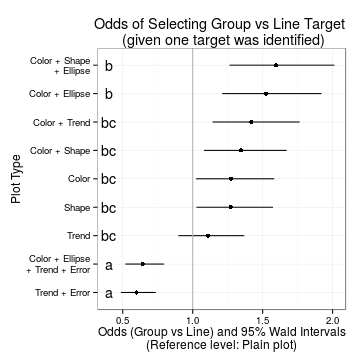
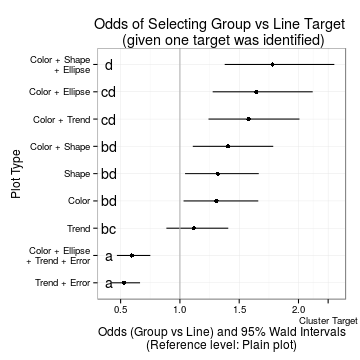
Small edits, updated vs. model

diff --git a/Presentations/DepartmentalSeminar/DepartmentalSeminar.html b/Presentations/DepartmentalSeminar/DepartmentalSeminar.html
@@ -248,7 +248,7 @@
 
 <section id="experiment">
   <section>
-    <div> <h2>Experiment:</h2> <h3> How do plot aesthetics affect perception of statistical plots with competing signals? </h3></div>
+    <div> <h2>Experiment:</h2> <h3> How do plot aesthetics affect <br>perception of statistical plots? </h3></div>
 <div class="chunk" id="motivation"><div class="rimage default"><img src="figure/motivation-1.png" title="plot of chunk motivation" alt="plot of chunk motivation" width="300px" height="300px" class="plot" />
 <img src="figure/motivation-2.png" title="plot of chunk motivation" alt="plot of chunk motivation" width="300px" height="300px" class="plot" /></div></div>
   </section>
@@ -264,14 +264,14 @@
         <td style="vertical-align:top;">
         <h4> <b> Standard design: </b> </h4>
           <ul style="font-size:85%">
-            <li> One "target" plot (real data or generated from $H_A$) </li>
+            <li> One "target" plot <br>(real data or generated from $H_A$) </li>
             <li> 19 null plots generated from $H_0$ </li>
-            <li> $P(\text{select target}) = 0.05$ </li>
-            <li> Visual analogue of hypothesis tests </li>
+            <li> $P(\text{select target}) = 0.05$ under $H_0$ </li>
+            <li> Allows quantification of significance for graphical findings</li>
           </ul>
-          <p style="font-size:50%"> Buja, A., Cook, D., Hofmann, H., Lawrence, M., Lee, E. K., Swayne, D. F., and Wickham, H. (2009). Statistical inference for exploratory data analysis and model diagnostics. </p>
-          <p style="font-size:50%"> Majumder, M., Hofmann, H., and Cook, D. (2013). Validation of visual statistical inference, applied to linear models.</p>
-          <p style="font-size:50%"> Wickham, H., Cook, D., Hofmann, H., and Buja, A. (2010). Graphical inference for infovis.</p>
+          <p style="font-size:50%"> Buja, A., Cook, D., Hofmann, H., Lawrence, M., Lee, E. K., Swayne, D. F., and Wickham, H. (2009). Statistical inference for exploratory data analysis and model diagnostics, <i>Phil. Transac.</i> </p>
+          <p style="font-size:50%"> Majumder, M., Hofmann, H., and Cook, D. (2013). Validation of visual statistical inference, applied to linear models, <i>JASA</i></p>
+          <p style="font-size:50%"> Wickham, H., Cook, D., Hofmann, H., and Buja, A. (2010). Graphical inference for infovis, <i>TVCG</i></p>
         </td>
       </tr>
     </table>
@@ -308,6 +308,7 @@
                 <td style="text-align:right;padding-left:20px;padding-top:20px;padding-right:20px;"> Other: </td> <td style="text-align:right;padding-top:20px;"> <code class="knitr inline">31.7</code>% </td>
               </tr>
             </table>
+            Sample size: 22
           </div>
         </td>
       </tr>
@@ -346,6 +347,7 @@
                 <td style="text-align:right;padding-left:20px;padding-top:20px;padding-right:20px;"> Other: </td> <td style="text-align:right;padding-top:20px;"> <code class="knitr inline">29.1</code>% </td>
               </tr>
             </table>
+            Sample size: 31
           </div>
         </td>
       </tr>
@@ -379,8 +381,7 @@
     <p style="text-align:left;"><b>Output: </b> vectors $x$ and $y$ with $N$ observations </p>
     <ol>
       <li class="fragment"> Generate $\tilde{x}_i$, $i=1, ..., N$, as a seq. of evenly spaced points from $[-1, 1]$. </li>
-      <li class="fragment"> Jitter $\tilde{x}_i$ by adding small perturbations: 
-        <p style="font-size:75%">$x_i = \tilde{x}_i + \eta_i$, where $\eta_i \sim \text{Unif}(-z, z)$, $z = \frac{2}{5(N-1)}$</p></li>
+      <li class="fragment"> Jitter $\tilde{x}_i$ by adding small perturbations</li>
       <li class="fragment"> Generate $y_i$ as a linear function of $x_i$: $y_i = x_i + e_i$, $e_i \sim N(0, \sigma^2_T)$.</li>
       <li class="fragment"> Center and scale $x_i$, $y_i$.</li>
     </ol>
@@ -393,25 +394,12 @@
 
   <section>
     <h2> Cluster Model $M_C$ </h2>
-    <p style="text-align:left;"><b>Input: </b>$N$ points, $K$ clusters, $\sigma_C$ cluster standard deviation </p>
+    <p style="text-align:left;"><b>Input: </b>sample size $N$, number of clusters $K$, cluster std. dev. $\sigma_C$ </p>
     <p style="text-align:left;"><b>Output: </b> vectors $\mathbf{x}$ and $\mathbf{y}$ with $N$ observations </p>
     <ol>
-      <li style="margin-bottom:20px" class="fragment smalleqns"> Generate $K$ cluster centers $(c^x_{i}, c^y_{i})$, $i=1, ..., K$: </li>
-        <ol type="A" style="font-size:75%">
-          <li class="fragment"> Permute $\{1, ..., K\}$ to form two vectors $c^{x}$ and $c^y$, such that $\text{cor}(c^{x}, c^{y})\in[.25, .75]$
-          <li class="fragment"> Center and scale: $\tilde{c}^x = \frac{c^x - \bar{c}}{s_c} $ and $\tilde{c}^y = \frac{c^y - \bar{c}}{s_c}$ where $\overline{c} = \frac{K+1}{2}$ and $s_c^2 = \frac{K(K+1)}{12}$.</li>
-        </ol>
-
-      <li style="margin-bottom:20px" class="fragment smalleqns"> Sample group sizes $g = (g_1, ..., g_K)$ with $N = \sum_{i=1}^K g_i$ 
-    <div style="font-size:80%">$ g \sim \text{Multinomial }(K, p) \text{ where } p = \tilde{p}/\sum_{i=1}^K \tilde{p}_i, \text{ for } \tilde{p} \sim N \left(\frac{1}{K}, \frac{1}{2 K^2} \right)$ </div> </li>
-      <li style="margin-bottom:20px" class="fragment">Generate points around cluster centers:
-      <span style="text-align:right;display:inline-block;font-size:80%;">
-      $$
-      \begin{align}
-        \mathbf{x} &= \tilde{c}^x_{g_i} + \mathbf{e^x}, \mathbf{e^x} \sim N(\mathbf{0}, \sigma^2_C),\\
-        \mathbf{y} &= \tilde{c}^y_{g_i} + \mathbf{e^y}, \mathbf{e^y} \sim N(\mathbf{0}, \sigma^2_C).
-      \end{align}
-      $$</span></li>
+      <li style="margin-bottom:20px" class="fragment smalleqns"> Generate $K$ cluster centers (c^x, c^y)$ on a $K\timesK$ grid; center and scale </li>
+      <li style="margin-bottom:20px" class="fragment smalleqns"> Sample group sizes $g = (g_1, ..., g_K)$ with $N = \sum_{i=1}^K g_i$ </li>
+      <li style="margin-bottom:20px" class="fragment">Generate points $(\mathbf{x},\mathbf{y})$ with perturbations $ N(\mathbf{0}, \sigma^2_C)$ </li>
       <li style="margin-bottom:20px" class="fragment">Center and scale $x_i$, $y_i$.</li>
     </ol>
   </section>
@@ -552,7 +540,7 @@
   </section>
   
   <section>
-    <h2> Experiment Structure </h2>
+    <h2> Experimental Structure </h2>
     <table class="noborder">
       <tr>
         <td style="padding-right:50px;vertical-align:top;">
@@ -768,13 +756,14 @@
     <br>
     $$
     \begin{align}
-    \text{logit }P(C_{ijk} | C_{ijk}\cup T_{ijk}) & =  \textbf{X}\beta + \textbf{J}\gamma + \epsilon, \\
+    \text{logit }P(C_{ijk} | C_{ijk}\cup T_{ijk}) & =  \textbf{X}\beta + \textbf{J}\gamma + \textbf{K}\eta + \epsilon, \\
     \text{where } \beta_i & \hphantom{\sim} \text{describe plot types}\\
     \hphantom{where } \gamma_j & \overset{iid}{\sim} N\left(0, \sigma^2_{\text{dataset}}\right)\\
+    \hphantom{where } \eta_k & \overset{iid}{\sim} N\left(0, \sigma^2_{\text{participant}}\right)\\
     \text{and } \epsilon_{ijk} & \overset{iid}{\sim}  N\left(0, \sigma^2_e\right)
     \end{align}
     $$
-    <p style="text-align:left;"> Participant effects have been removed due to conditioning on successful identification of either target. </p>
+
   </section>
   
   <section>
@@ -785,8 +774,8 @@
 <div class="chunk" id="cluster-vs-line"><div class="rimage default"><img src="figure/cluster-vs-line-1.png" title="plot of chunk cluster-vs-line" alt="plot of chunk cluster-vs-line" width="100%" height="auto" class="plot" /></div></div>
     <p style="font-size:50%;text-align:center;">Plot types are significantly different if they do not share a letter</p>
       </td><td style="font-size:80%;vertical-align:middle;">
-        <p style="margin-bottom:10px"> Participants are <code class="knitr inline">1.59</code> times as likely to select cluster targets when plots have color, shape, and ellipse aesthetics. </p>
-        <p> Participants are <code class="knitr inline">0.60</code> times as likely to select cluster targets when plots have trend line and prediction interval aesthetics. </p>
+        <p style="margin-bottom:10px"> Participants are <code class="knitr inline">1.78</code> times as likely to select cluster targets when plots have color, shape, and ellipse aesthetics. </p>
+        <p> Participants are <code class="knitr inline">0.53</code> times as likely to select cluster targets when plots have trend line and prediction interval aesthetics. </p>
       </td>
     </tr>
   </table>
@@ -811,7 +800,7 @@
 
         </td>
         <td width="15%"  class="fragment" data-fragment-index=5 style="vertical-align:middle;text-align:left;font-size:50%;">
-        Participants are <code class="knitr inline">1.42</code> times as likely to select the cluster target with color + trend line, relative to the plain plot.
+        Participants are <code class="knitr inline">1.58</code> times as likely to select the cluster target with color + trend line, relative to the plain plot.
         </td>
       </tr>
       <tr>
@@ -828,7 +817,7 @@
 
         </td>
         <td width="15%" class="fragment" data-fragment-index=5 style="vertical-align:middle;text-align:left;font-size:50%;">
-        Participants are <code class="knitr inline">0.64</code> times as likely to select the cluster target with color + ellipse + trend line + error, relative to the plain plot.
+        Participants are <code class="knitr inline">0.59</code> times as likely to select the cluster target with color + ellipse + trend line + error, relative to the plain plot.
         </td>
       </tr>
     </table>
